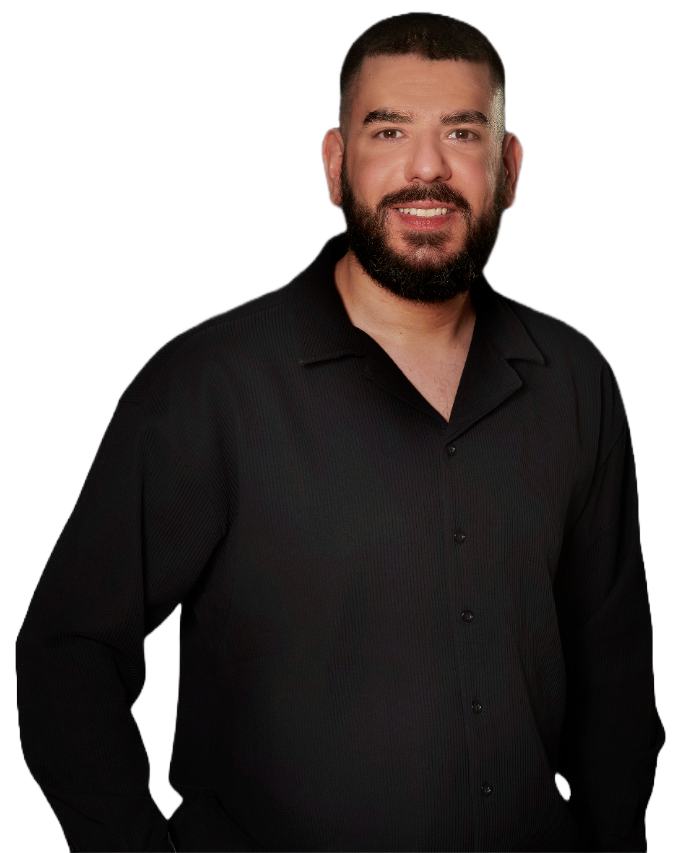
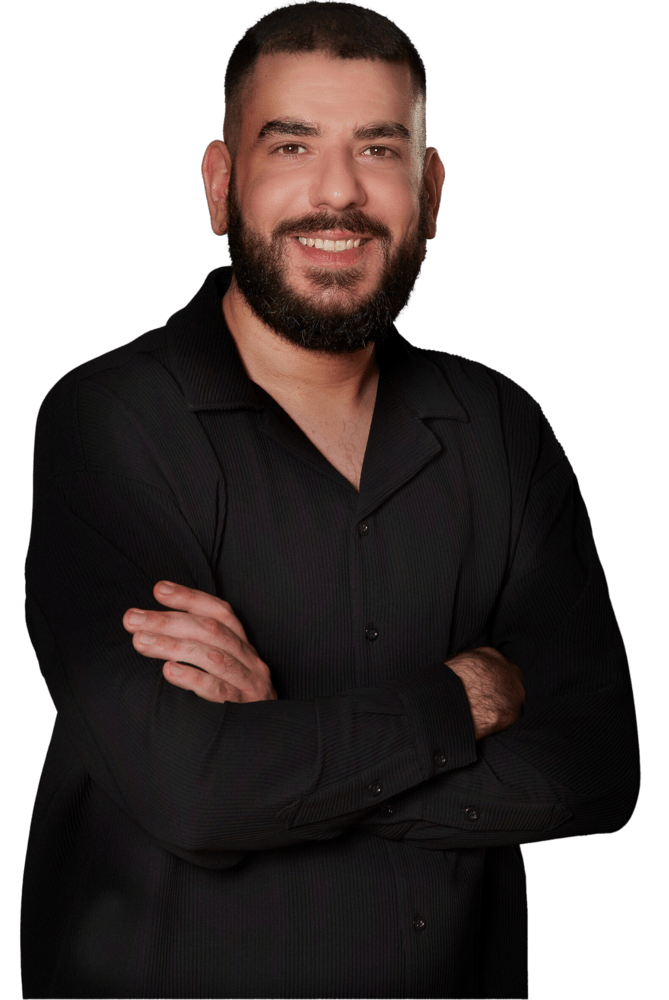
design update

diff --git a/src/app/above-the-fold/above-the-fold.component.html b/src/app/above-the-fold/above-the-fold.component.html
@@ -1,6 +1,6 @@
 <section>
     <div class="image-container">
-        <img class="portfolio-img top-img" src="../../assets/img/portfolio-img111111111.png" alt="" data-aos="fade-right" data-aos-easing="ease-in-out-back">
+        <img class="portfolio-img top-img" src="../../assets/img/portfolio-img.png" alt="" data-aos="fade-right" data-aos-easing="ease-in-out-back">
         <img class="shadow bottom-img" src="../../assets/img/shadow1.png" alt="">
     </div>
     <div class="full-box" data-aos="fade-left" data-aos-easing="ease-in-out-back" data-aos-offset="-100">

diff --git a/src/custom-scrollbar.css b/src/custom-scrollbar.css
@@ -74,9 +74,9 @@
   }
   
   /* Verstecken der Scrollbar auf Mobilgeräten */
-  @media screen and (max-width: 768px) {
+  /* @media screen and (max-width: 768px) {
     ::-webkit-scrollbar,
     ::-webkit-scrollbar-y {
-        display: none; /* Verstecken der horizontalen und vertikalen Scrollbar auf Mobilgeräten */
+        display: none;
     }
-  }
+  } */

diff --git a/src/app/about-me/about-me.component.scss b/src/app/about-me/about-me.component.scss
@@ -143,11 +143,15 @@ section {
     section {
         align-items: center;
         padding-left: unset;
+        overflow-x: hidden;
     }
     .about-me-box {
         width: unset;
         padding-left: 75px;
         padding-right: 75px;
+    }
+    .shadow {
+        top: -50px;
     }
 }
 

diff --git a/src/app/above-the-fold/above-the-fold.component.scss b/src/app/above-the-fold/above-the-fold.component.scss
@@ -11,7 +11,8 @@ section {
 
 .image-container {
     position: relative;
-    width: 625px;
+    // width: 625px;
+    width: 570px;
     padding-left: 100px;
 }
 
@@ -33,7 +34,7 @@ section {
 
 .bottom-img {
     position: relative; 
-    right: 200px;
+    right: 220px;
 
 }
 
